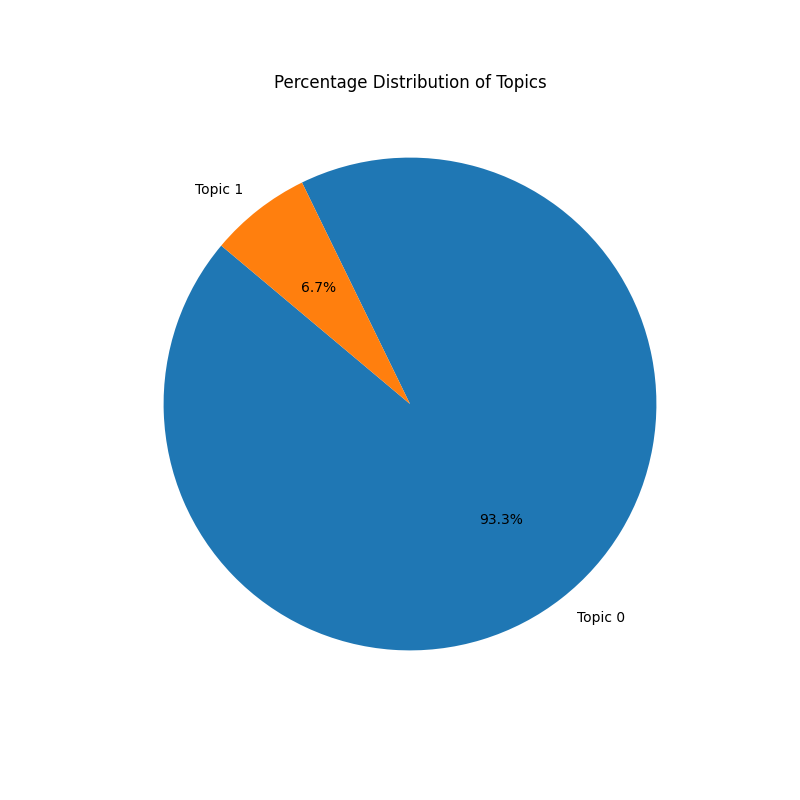
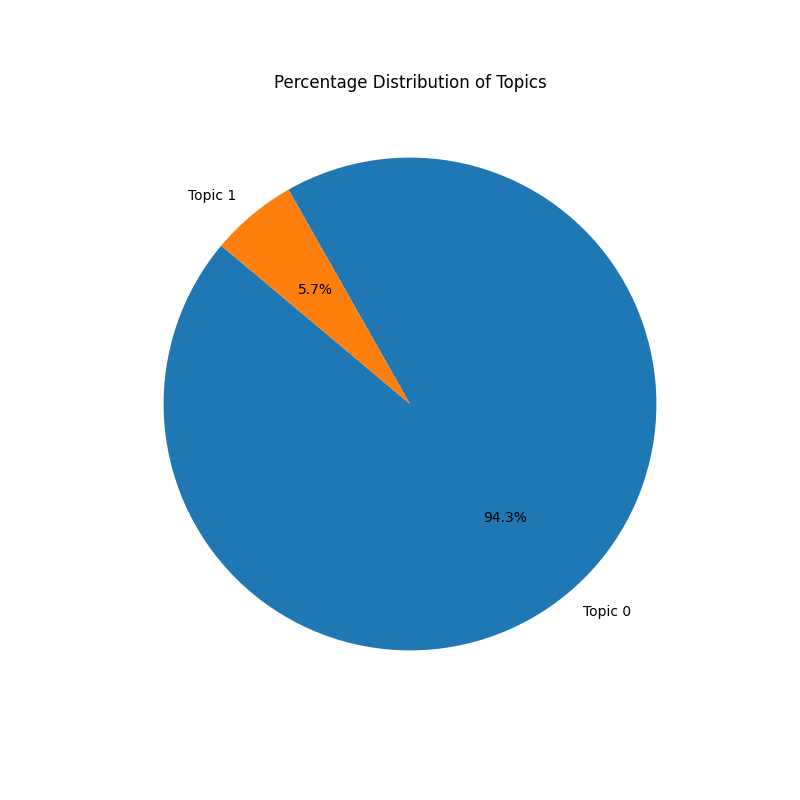
novo bertopic

diff --git a/modelagemTopicos/bertopic3.py b/modelagemTopicos/bertopic3.py
@@ -4,6 +4,8 @@ import spacy
 from tqdm import tqdm
 from sentence_transformers import SentenceTransformer
 from bertopic import BERTopic
+from bertopic.representation import KeyBERTInspired
+from sklearn.feature_extraction.text import CountVectorizer
 from wordcloud import WordCloud
 import matplotlib.pyplot as plt
 import plotly.io as pio
@@ -22,7 +24,7 @@ os.environ["TOKENIZERS_PARALLELISM"] = "false"
 
 SEED = 42
 
-TITLE = "reference"
+TITLE = "original"
 # original reference chatGPTPrompt1 googleTradutor maritacaPrompt1
 
 # Caminho para o arquivo de entrada
@@ -33,14 +35,14 @@ CAMINHO_CSV = "poemas_unificados.csv"
 PASTA_SAIDA = "results"
 
 # Coluna do DataFrame a ser utilizada
-COLUNA_POEMAS = "translated_poem"  # "original_poem", "translated_poem", "translated_by_TA"
+COLUNA_POEMAS = "original_poem"  # "original_poem", "translated_poem", "translated_by_TA"
 
 # Definição dos idiomas de origem e destino para filtrar o CSV
 IDIOMA_ORIGEM = "fr_XX"  #  "fr_XX", "pt_XX", "en_XX"
 IDIOMA_DESTINO = "en_XX" #  "fr_XX", "pt_XX", "en_XX"
 
 # Idioma para o pré-processamento (NLTK e spaCy)
-IDIOMA_PROC = "en_XX"
+IDIOMA_PROC = "fr_XX"
 
 
 
@@ -139,7 +141,7 @@ if __name__ == '__main__':
 
     # --- Parte 3: Geração de Embeddings ---
     print("🔗 Carregando modelo de embeddings (SentenceTransformer)...")
-    embedding_model = SentenceTransformer("paraphrase-multilingual-MiniLM-L12-v2")
+    embedding_model = SentenceTransformer("distiluse-base-multilingual-cased-v2") # paraphrase-multilingual-MiniLM-L12-v2  distiluse-base-multilingual-cased-v2
     print("🔗 Gerando embeddings para os poemas...")
     embeddings = embedding_model.encode(poemas_limpos, show_progress_bar=True)
 
@@ -147,7 +149,9 @@ if __name__ == '__main__':
     print("📚 Criando e treinando o modelo BERTopic...")
     
     umap_model = UMAP(random_state=SEED)
-    topic_model = BERTopic(language="multilingual", nr_topics="auto", umap_model=umap_model)
+    vectorizer_model=CountVectorizer(ngram_range=(1, 2))
+
+    topic_model = BERTopic(language="multilingual", umap_model=umap_model, min_topic_size=20, vectorizer_model=vectorizer_model, representation_model=KeyBERTInspired())
     topics, _ = topic_model.fit_transform(poemas_limpos, embeddings)
 
     # --- Parte 5: Análise e Salvamento dos Resultados ---
